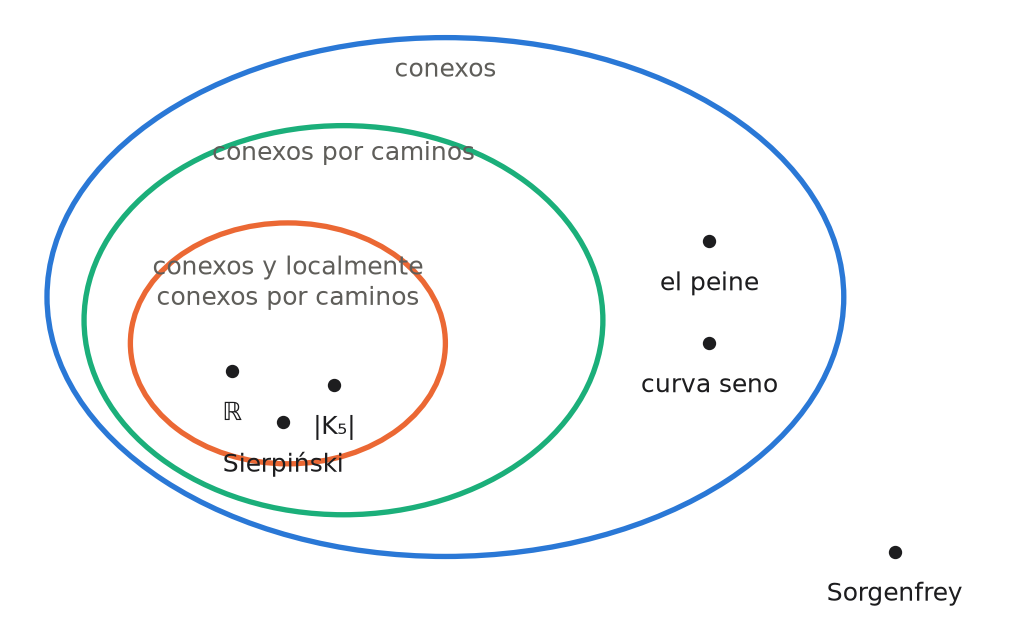
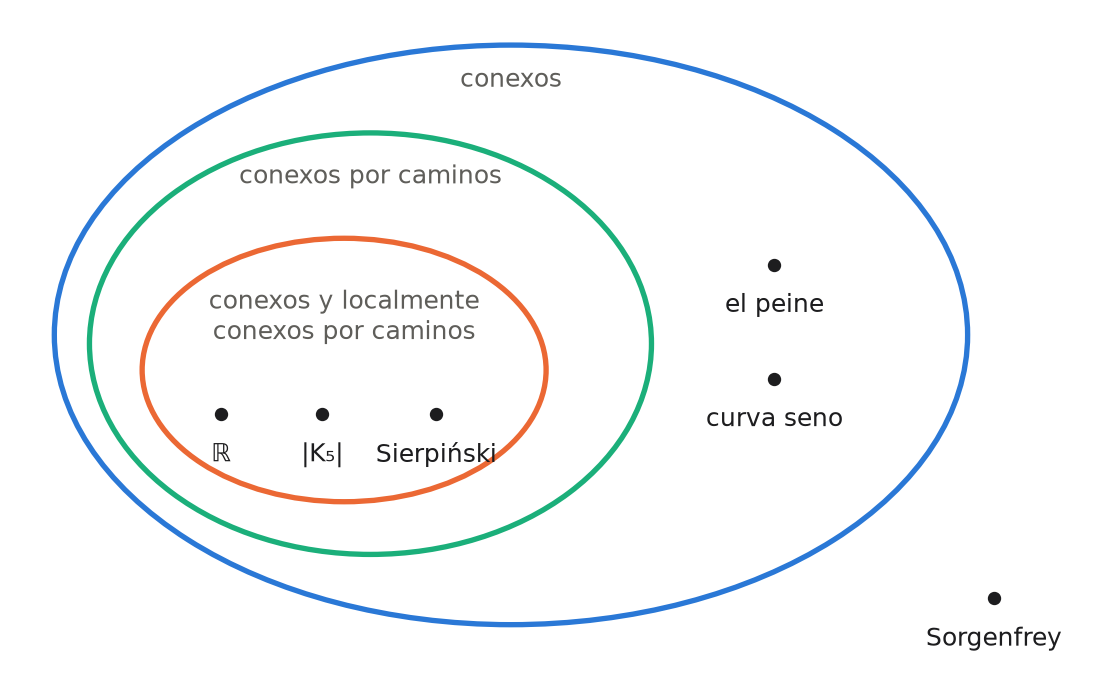
Built site for gh-pages

diff --git a/capitulos/01-grafos/1-1-componentes-conexas.html b/capitulos/01-grafos/1-1-componentes-conexas.html
@@ -1072,7 +1072,7 @@ window.Quarto = {
 <div id="fig-anidamiento" class="quarto-float quarto-figure quarto-figure-center anchored">
 <figure class="quarto-float quarto-float-fig figure">
 <div aria-describedby="fig-anidamiento-caption-0ceaefa1-69ba-4598-a22c-09a6ac19f8ca">
-<div id="e2b5ebd6" class="cell" data-renderings="[&quot;light&quot;,&quot;dark&quot;]" data-execution_count="2">
+<div id="ea2a3920" class="cell" data-renderings="[&quot;light&quot;,&quot;dark&quot;]" data-execution_count="2">
 <div class="cell-output cell-output-display light-content">
 <div>
 <figure class="figure">
@@ -1464,17 +1464,17 @@ G \text{ conexo} \iff |G| \text{ conexo por caminos} \iff |G| \text{ conexo}.
 <div class="code-copy-outer-scaffold"><div class="sourceCode cell-code" id="cb6"><pre class="sourceCode python code-with-copy"><code class="sourceCode python"><span id="cb6-1"><a href="#cb6-1" aria-hidden="true" tabindex="-1"></a><span class="im">from</span> matplotlib.patches <span class="im">import</span> Ellipse</span>
 <span id="cb6-2"><a href="#cb6-2" aria-hidden="true" tabindex="-1"></a></span>
 <span id="cb6-3"><a href="#cb6-3" aria-hidden="true" tabindex="-1"></a>regiones <span class="op">=</span> [</span>
-<span id="cb6-4"><a href="#cb6-4" aria-hidden="true" tabindex="-1"></a>    ((<span class="fl">0.0</span>, <span class="fl">0.0</span>), <span class="fl">8.6</span>, <span class="fl">5.6</span>, <span class="st">"conexos"</span>, (<span class="dv">0</span>, <span class="fl">2.45</span>)),</span>
-<span id="cb6-5"><a href="#cb6-5" aria-hidden="true" tabindex="-1"></a>    ((<span class="op">-</span><span class="fl">1.1</span>, <span class="op">-</span><span class="fl">0.25</span>), <span class="fl">5.6</span>, <span class="fl">4.2</span>, <span class="st">"conexos por caminos"</span>, (<span class="op">-</span><span class="fl">1.1</span>, <span class="fl">1.55</span>)),</span>
-<span id="cb6-6"><a href="#cb6-6" aria-hidden="true" tabindex="-1"></a>    ((<span class="op">-</span><span class="fl">1.7</span>, <span class="op">-</span><span class="fl">0.5</span>), <span class="fl">3.4</span>, <span class="fl">2.6</span>, <span class="st">"conexos y localmente</span><span class="ch">\n</span><span class="st">conexos por caminos"</span>, (<span class="op">-</span><span class="fl">1.7</span>, <span class="fl">0.15</span>)),</span>
+<span id="cb6-4"><a href="#cb6-4" aria-hidden="true" tabindex="-1"></a>    ((<span class="fl">0.4</span>, <span class="op">-</span><span class="fl">0.2</span>), <span class="fl">10.4</span>, <span class="fl">6.6</span>, <span class="st">"conexos"</span>, (<span class="fl">0.4</span>, <span class="fl">2.7</span>)),</span>
+<span id="cb6-5"><a href="#cb6-5" aria-hidden="true" tabindex="-1"></a>    ((<span class="op">-</span><span class="fl">1.2</span>, <span class="op">-</span><span class="fl">0.3</span>), <span class="fl">6.4</span>, <span class="fl">4.8</span>, <span class="st">"conexos por caminos"</span>, (<span class="op">-</span><span class="fl">1.2</span>, <span class="fl">1.6</span>)),</span>
+<span id="cb6-6"><a href="#cb6-6" aria-hidden="true" tabindex="-1"></a>    ((<span class="op">-</span><span class="fl">1.5</span>, <span class="op">-</span><span class="fl">0.6</span>), <span class="fl">4.6</span>, <span class="fl">3.0</span>, <span class="st">"conexos y localmente</span><span class="ch">\n</span><span class="st">conexos por caminos"</span>, (<span class="op">-</span><span class="fl">1.5</span>, <span class="fl">0.0</span>)),</span>
 <span id="cb6-7"><a href="#cb6-7" aria-hidden="true" tabindex="-1"></a>]</span>
 <span id="cb6-8"><a href="#cb6-8" aria-hidden="true" tabindex="-1"></a>ejemplos <span class="op">=</span> [</span>
-<span id="cb6-9"><a href="#cb6-9" aria-hidden="true" tabindex="-1"></a>    (<span class="st">"ℝ"</span>, (<span class="op">-</span><span class="fl">2.3</span>, <span class="op">-</span><span class="fl">0.8</span>)), (<span class="st">"|K₅|"</span>, (<span class="op">-</span><span class="fl">1.2</span>, <span class="op">-</span><span class="fl">0.95</span>)), (<span class="st">"Sierpiński"</span>, (<span class="op">-</span><span class="fl">1.75</span>, <span class="op">-</span><span class="fl">1.35</span>)),</span>
-<span id="cb6-10"><a href="#cb6-10" aria-hidden="true" tabindex="-1"></a>    (<span class="st">"el peine"</span>, (<span class="fl">2.85</span>, <span class="fl">0.6</span>)), (<span class="st">"curva seno"</span>, (<span class="fl">2.85</span>, <span class="op">-</span><span class="fl">0.5</span>)), (<span class="st">"Sorgenfrey"</span>, (<span class="fl">4.85</span>, <span class="op">-</span><span class="fl">2.75</span>)),</span>
+<span id="cb6-9"><a href="#cb6-9" aria-hidden="true" tabindex="-1"></a>    (<span class="st">"ℝ"</span>, (<span class="op">-</span><span class="fl">2.9</span>, <span class="op">-</span><span class="fl">1.1</span>)), (<span class="st">"|K₅|"</span>, (<span class="op">-</span><span class="fl">1.75</span>, <span class="op">-</span><span class="fl">1.1</span>)), (<span class="st">"Sierpiński"</span>, (<span class="op">-</span><span class="fl">0.45</span>, <span class="op">-</span><span class="fl">1.1</span>)),</span>
+<span id="cb6-10"><a href="#cb6-10" aria-hidden="true" tabindex="-1"></a>    (<span class="st">"el peine"</span>, (<span class="fl">3.4</span>, <span class="fl">0.6</span>)), (<span class="st">"curva seno"</span>, (<span class="fl">3.4</span>, <span class="op">-</span><span class="fl">0.7</span>)), (<span class="st">"Sorgenfrey"</span>, (<span class="fl">5.9</span>, <span class="op">-</span><span class="fl">3.2</span>)),</span>
 <span id="cb6-11"><a href="#cb6-11" aria-hidden="true" tabindex="-1"></a>]</span>
 <span id="cb6-12"><a href="#cb6-12" aria-hidden="true" tabindex="-1"></a><span class="cf">for</span> modo <span class="kw">in</span> MODOS:</span>
 <span id="cb6-13"><a href="#cb6-13" aria-hidden="true" tabindex="-1"></a>    <span class="cf">with</span> tema(modo) <span class="im">as</span> p:</span>
-<span id="cb6-14"><a href="#cb6-14" aria-hidden="true" tabindex="-1"></a>        fig, ax <span class="op">=</span> plt.subplots(figsize<span class="op">=</span>(<span class="fl">6.6</span>, <span class="fl">4.4</span>))</span>
+<span id="cb6-14"><a href="#cb6-14" aria-hidden="true" tabindex="-1"></a>        fig, ax <span class="op">=</span> plt.subplots(figsize<span class="op">=</span>(<span class="fl">7.2</span>, <span class="fl">4.6</span>))</span>
 <span id="cb6-15"><a href="#cb6-15" aria-hidden="true" tabindex="-1"></a>        colores <span class="op">=</span> [p[<span class="st">"acento"</span>], p[<span class="st">"enlace"</span>], p[<span class="st">"seco"</span>]]</span>
 <span id="cb6-16"><a href="#cb6-16" aria-hidden="true" tabindex="-1"></a>        <span class="cf">for</span> (centro, w, h, nombre, pos), color <span class="kw">in</span> <span class="bu">zip</span>(regiones, colores):</span>
 <span id="cb6-17"><a href="#cb6-17" aria-hidden="true" tabindex="-1"></a>            ax.add_patch(Ellipse(centro, w, h, fill<span class="op">=</span><span class="va">False</span>, lw<span class="op">=</span><span class="dv">2</span>, edgecolor<span class="op">=</span>color))</span>
@@ -1482,8 +1482,8 @@ G \text{ conexo} \iff |G| \text{ conexo por caminos} \iff |G| \text{ conexo}.
 <span id="cb6-19"><a href="#cb6-19" aria-hidden="true" tabindex="-1"></a>        <span class="cf">for</span> nombre, pos <span class="kw">in</span> ejemplos:</span>
 <span id="cb6-20"><a href="#cb6-20" aria-hidden="true" tabindex="-1"></a>            ax.plot(<span class="op">*</span>pos, <span class="st">"o"</span>, ms<span class="op">=</span><span class="dv">4</span>, color<span class="op">=</span>p[<span class="st">"tinta"</span>])</span>
 <span id="cb6-21"><a href="#cb6-21" aria-hidden="true" tabindex="-1"></a>            ax.text(pos[<span class="dv">0</span>], pos[<span class="dv">1</span>] <span class="op">-</span> <span class="fl">0.32</span>, nombre, ha<span class="op">=</span><span class="st">"center"</span>, va<span class="op">=</span><span class="st">"top"</span>, fontsize<span class="op">=</span><span class="fl">9.5</span>)</span>
-<span id="cb6-22"><a href="#cb6-22" aria-hidden="true" tabindex="-1"></a>        ax.set_xlim(<span class="op">-</span><span class="fl">4.6</span>, <span class="fl">6.0</span>)</span>
-<span id="cb6-23"><a href="#cb6-23" aria-hidden="true" tabindex="-1"></a>        ax.set_ylim(<span class="op">-</span><span class="fl">3.3</span>, <span class="fl">3.0</span>)</span>
+<span id="cb6-22"><a href="#cb6-22" aria-hidden="true" tabindex="-1"></a>        ax.set_xlim(<span class="op">-</span><span class="fl">5.2</span>, <span class="fl">7.0</span>)</span>
+<span id="cb6-23"><a href="#cb6-23" aria-hidden="true" tabindex="-1"></a>        ax.set_ylim(<span class="op">-</span><span class="fl">3.9</span>, <span class="fl">3.4</span>)</span>
 <span id="cb6-24"><a href="#cb6-24" aria-hidden="true" tabindex="-1"></a>        ax.set_aspect(<span class="st">"equal"</span>)</span>
 <span id="cb6-25"><a href="#cb6-25" aria-hidden="true" tabindex="-1"></a>        ax.axis(<span class="st">"off"</span>)</span>
 <span id="cb6-26"><a href="#cb6-26" aria-hidden="true" tabindex="-1"></a>        plt.show()</span></code></pre></div><button title="Copiar al portapapeles" class="code-copy-button"><i class="bi"></i></button></div>
@@ -1491,18 +1491,18 @@ G \text{ conexo} \iff |G| \text{ conexo por caminos} \iff |G| \text{ conexo}.
 <div id="fig-jerarquia" class="quarto-float quarto-figure quarto-figure-center anchored">
 <figure class="quarto-float quarto-float-fig figure">
 <div aria-describedby="fig-jerarquia-caption-0ceaefa1-69ba-4598-a22c-09a6ac19f8ca">
-<div id="127000f6" class="cell" data-renderings="[&quot;light&quot;,&quot;dark&quot;]" data-execution_count="3">
+<div id="723c7bdc" class="cell" data-renderings="[&quot;light&quot;,&quot;dark&quot;]" data-execution_count="3">
 <div class="cell-output cell-output-display light-content">
 <div>
 <figure class="figure">
-<p><img src="1-1-componentes-conexas_files/figure-html/cell-4-output-1.png" alt="Diagrama de Euler: el conjunto de los conexos contiene al de los conexos por caminos, que contiene al de los conexos y localmente conexos por caminos. Los ejemplos ℝ, la realización de K5 y Sierpiński están en el más interior; el peine y la curva seno están en conexos pero no conexos por caminos; Sorgenfrey está afuera." width="510" height="313" class="figure-img"></p>
+<p><img src="1-1-componentes-conexas_files/figure-html/cell-4-output-1.png" alt="Diagrama de Euler: el conjunto de los conexos contiene al de los conexos por caminos, que contiene al de los conexos y localmente conexos por caminos. Los ejemplos ℝ, la realización de K5 y Sierpiński están en el más interior; el peine y la curva seno están en conexos pero no conexos por caminos; Sorgenfrey está afuera." width="555" height="340" class="figure-img"></p>
 </figure>
 </div>
 </div>
 <div class="cell-output cell-output-display dark-content">
 <div>
 <figure class="figure">
-<p><img src="1-1-componentes-conexas_files/figure-html/cell-4-output-2.png" alt="Diagrama de Euler: el conjunto de los conexos contiene al de los conexos por caminos, que contiene al de los conexos y localmente conexos por caminos. Los ejemplos ℝ, la realización de K5 y Sierpiński están en el más interior; el peine y la curva seno están en conexos pero no conexos por caminos; Sorgenfrey está afuera." width="510" height="313" class="figure-img"></p>
+<p><img src="1-1-componentes-conexas_files/figure-html/cell-4-output-2.png" alt="Diagrama de Euler: el conjunto de los conexos contiene al de los conexos por caminos, que contiene al de los conexos y localmente conexos por caminos. Los ejemplos ℝ, la realización de K5 y Sierpiński están en el más interior; el peine y la curva seno están en conexos pero no conexos por caminos; Sorgenfrey está afuera." width="555" height="340" class="figure-img"></p>
 </figure>
 </div>
 </div>
@@ -1548,7 +1548,7 @@ Figura&nbsp;2: La jerarquía de la conexidad, con un ejemplo en cada región. La
 \boxed{\; n - m = \beta_0 - \beta_1 \;}
 \]</span></p>
 <p>Cada arista rechazada cierra <strong>un ciclo nuevo, independiente de los anteriores</strong>: <span class="math inline">\(\beta_1\)</span> cuenta los «agujeros» del grafo. <span class="math inline">\(\beta_0\)</span> y <span class="math inline">\(\beta_1\)</span> son los <strong>números de Betti</strong> del grafo y la fórmula es su <strong>característica de Euler</strong>. Sin decirlo, union-find calcula la <strong>homología</strong> del grafo en dimensiones 0 y 1, que es el tema del capítulo IV. No hace falta creerlo: lo comprobamos acá mismo con <code>tcomp</code>, sobre grafos al azar y con las tres estrategias.</p>
-<div id="bc733136" class="cell" data-execution_count="4">
+<div id="22bcbb54" class="cell" data-execution_count="4">
 <details class="code-fold">
 <summary>Código</summary>
 <div class="code-copy-outer-scaffold"><div class="sourceCode cell-code" id="cb7"><pre class="sourceCode python code-with-copy"><code class="sourceCode python"><span id="cb7-1"><a href="#cb7-1" aria-hidden="true" tabindex="-1"></a>rng <span class="op">=</span> random.Random(<span class="dv">0</span>)</span>
@@ -2056,7 +2056,7 @@ Figura&nbsp;2: La jerarquía de la conexidad, con un ejemplo en cada región. La
 <div id="fig-persistencia" class="quarto-float quarto-figure quarto-figure-center anchored">
 <figure class="quarto-float quarto-float-fig figure">
 <div aria-describedby="fig-persistencia-caption-0ceaefa1-69ba-4598-a22c-09a6ac19f8ca">
-<div id="7a5c3ea8" class="cell" data-renderings="[&quot;light&quot;,&quot;dark&quot;]" data-execution_count="9">
+<div id="5f3de923" class="cell" data-renderings="[&quot;light&quot;,&quot;dark&quot;]" data-execution_count="9">
 <div class="cell-output cell-output-display light-content">
 <div>
 <figure class="figure">
@@ -2079,7 +2079,7 @@ Figura&nbsp;3: Persistencia en dimensión 0 con tcomp. Arriba, la nube a tres ra
 </figure>
 </div>
 <p>¿Es correcto? <code>tcomp</code> es una implementación propia, así que lo contrastamos con la librería de referencia, GUDHI, sobre la misma nube:</p>
-<div id="7f8301aa" class="cell" data-execution_count="10">
+<div id="1af81272" class="cell" data-execution_count="10">
 <details class="code-fold">
 <summary>Código</summary>
 <div class="code-copy-outer-scaffold"><div class="sourceCode cell-code" id="cb19"><pre class="sourceCode python code-with-copy"><code class="sourceCode python"><span id="cb19-1"><a href="#cb19-1" aria-hidden="true" tabindex="-1"></a><span class="im">import</span> gudhi</span>
@@ -2141,7 +2141,7 @@ Figura&nbsp;3: Persistencia en dimensión 0 con tcomp. Arriba, la nube a tres ra
 <div id="fig-finanzas" class="quarto-float quarto-figure quarto-figure-center anchored">
 <figure class="quarto-float quarto-float-fig figure">
 <div aria-describedby="fig-finanzas-caption-0ceaefa1-69ba-4598-a22c-09a6ac19f8ca">
-<div id="48a76b57" class="cell" data-renderings="[&quot;light&quot;,&quot;dark&quot;]" data-execution_count="11">
+<div id="33dfa594" class="cell" data-renderings="[&quot;light&quot;,&quot;dark&quot;]" data-execution_count="11">
 <div class="cell-output cell-output-display light-content">
 <div>
 <figure class="figure">
@@ -2164,7 +2164,7 @@ Figura&nbsp;4: Dos sectores sintéticos. Izquierda: matriz de correlaciones. Der
 </figure>
 </div>
 <p>¿El código de barras es de verdad el dendrograma? Lo contrastamos con el enlace simple de SciPy:</p>
-<div id="dad002db" class="cell" data-execution_count="12">
+<div id="30d4ecee" class="cell" data-execution_count="12">
 <details class="code-fold">
 <summary>Código</summary>
 <div class="code-copy-outer-scaffold"><div class="sourceCode cell-code" id="cb22"><pre class="sourceCode python code-with-copy"><code class="sourceCode python"><span id="cb22-1"><a href="#cb22-1" aria-hidden="true" tabindex="-1"></a>alturas <span class="op">=</span> np.sort(linkage(D[np.triu_indices(<span class="dv">10</span>, <span class="dv">1</span>)], method<span class="op">=</span><span class="st">"single"</span>)[:, <span class="dv">2</span>])</span>
@@ -3496,17 +3496,17 @@ window._ojs.runtime.interpretFromScriptTags();
 <span id="cb24-817"><a href="#cb24-817" aria-hidden="true" tabindex="-1"></a><span class="im">from</span> matplotlib.patches <span class="im">import</span> Ellipse</span>
 <span id="cb24-818"><a href="#cb24-818" aria-hidden="true" tabindex="-1"></a></span>
 <span id="cb24-819"><a href="#cb24-819" aria-hidden="true" tabindex="-1"></a>regiones <span class="op">=</span> [</span>
-<span id="cb24-820"><a href="#cb24-820" aria-hidden="true" tabindex="-1"></a>    ((<span class="fl">0.0</span>, <span class="fl">0.0</span>), <span class="fl">8.6</span>, <span class="fl">5.6</span>, <span class="st">"conexos"</span>, (<span class="dv">0</span>, <span class="fl">2.45</span>)),</span>
-<span id="cb24-821"><a href="#cb24-821" aria-hidden="true" tabindex="-1"></a>    ((<span class="op">-</span><span class="fl">1.1</span>, <span class="op">-</span><span class="fl">0.25</span>), <span class="fl">5.6</span>, <span class="fl">4.2</span>, <span class="st">"conexos por caminos"</span>, (<span class="op">-</span><span class="fl">1.1</span>, <span class="fl">1.55</span>)),</span>
-<span id="cb24-822"><a href="#cb24-822" aria-hidden="true" tabindex="-1"></a>    ((<span class="op">-</span><span class="fl">1.7</span>, <span class="op">-</span><span class="fl">0.5</span>), <span class="fl">3.4</span>, <span class="fl">2.6</span>, <span class="st">"conexos y localmente</span><span class="ch">\n</span><span class="st">conexos por caminos"</span>, (<span class="op">-</span><span class="fl">1.7</span>, <span class="fl">0.15</span>)),</span>
+<span id="cb24-820"><a href="#cb24-820" aria-hidden="true" tabindex="-1"></a>    ((<span class="fl">0.4</span>, <span class="op">-</span><span class="fl">0.2</span>), <span class="fl">10.4</span>, <span class="fl">6.6</span>, <span class="st">"conexos"</span>, (<span class="fl">0.4</span>, <span class="fl">2.7</span>)),</span>
+<span id="cb24-821"><a href="#cb24-821" aria-hidden="true" tabindex="-1"></a>    ((<span class="op">-</span><span class="fl">1.2</span>, <span class="op">-</span><span class="fl">0.3</span>), <span class="fl">6.4</span>, <span class="fl">4.8</span>, <span class="st">"conexos por caminos"</span>, (<span class="op">-</span><span class="fl">1.2</span>, <span class="fl">1.6</span>)),</span>
+<span id="cb24-822"><a href="#cb24-822" aria-hidden="true" tabindex="-1"></a>    ((<span class="op">-</span><span class="fl">1.5</span>, <span class="op">-</span><span class="fl">0.6</span>), <span class="fl">4.6</span>, <span class="fl">3.0</span>, <span class="st">"conexos y localmente</span><span class="ch">\n</span><span class="st">conexos por caminos"</span>, (<span class="op">-</span><span class="fl">1.5</span>, <span class="fl">0.0</span>)),</span>
 <span id="cb24-823"><a href="#cb24-823" aria-hidden="true" tabindex="-1"></a>]</span>
 <span id="cb24-824"><a href="#cb24-824" aria-hidden="true" tabindex="-1"></a>ejemplos <span class="op">=</span> [</span>
-<span id="cb24-825"><a href="#cb24-825" aria-hidden="true" tabindex="-1"></a>    (<span class="st">"ℝ"</span>, (<span class="op">-</span><span class="fl">2.3</span>, <span class="op">-</span><span class="fl">0.8</span>)), (<span class="st">"|K₅|"</span>, (<span class="op">-</span><span class="fl">1.2</span>, <span class="op">-</span><span class="fl">0.95</span>)), (<span class="st">"Sierpiński"</span>, (<span class="op">-</span><span class="fl">1.75</span>, <span class="op">-</span><span class="fl">1.35</span>)),</span>
-<span id="cb24-826"><a href="#cb24-826" aria-hidden="true" tabindex="-1"></a>    (<span class="st">"el peine"</span>, (<span class="fl">2.85</span>, <span class="fl">0.6</span>)), (<span class="st">"curva seno"</span>, (<span class="fl">2.85</span>, <span class="op">-</span><span class="fl">0.5</span>)), (<span class="st">"Sorgenfrey"</span>, (<span class="fl">4.85</span>, <span class="op">-</span><span class="fl">2.75</span>)),</span>
+<span id="cb24-825"><a href="#cb24-825" aria-hidden="true" tabindex="-1"></a>    (<span class="st">"ℝ"</span>, (<span class="op">-</span><span class="fl">2.9</span>, <span class="op">-</span><span class="fl">1.1</span>)), (<span class="st">"|K₅|"</span>, (<span class="op">-</span><span class="fl">1.75</span>, <span class="op">-</span><span class="fl">1.1</span>)), (<span class="st">"Sierpiński"</span>, (<span class="op">-</span><span class="fl">0.45</span>, <span class="op">-</span><span class="fl">1.1</span>)),</span>
+<span id="cb24-826"><a href="#cb24-826" aria-hidden="true" tabindex="-1"></a>    (<span class="st">"el peine"</span>, (<span class="fl">3.4</span>, <span class="fl">0.6</span>)), (<span class="st">"curva seno"</span>, (<span class="fl">3.4</span>, <span class="op">-</span><span class="fl">0.7</span>)), (<span class="st">"Sorgenfrey"</span>, (<span class="fl">5.9</span>, <span class="op">-</span><span class="fl">3.2</span>)),</span>
 <span id="cb24-827"><a href="#cb24-827" aria-hidden="true" tabindex="-1"></a>]</span>
 <span id="cb24-828"><a href="#cb24-828" aria-hidden="true" tabindex="-1"></a><span class="cf">for</span> modo <span class="kw">in</span> MODOS:</span>
 <span id="cb24-829"><a href="#cb24-829" aria-hidden="true" tabindex="-1"></a>    <span class="cf">with</span> tema(modo) <span class="im">as</span> p:</span>
-<span id="cb24-830"><a href="#cb24-830" aria-hidden="true" tabindex="-1"></a>        fig, ax <span class="op">=</span> plt.subplots(figsize<span class="op">=</span>(<span class="fl">6.6</span>, <span class="fl">4.4</span>))</span>
+<span id="cb24-830"><a href="#cb24-830" aria-hidden="true" tabindex="-1"></a>        fig, ax <span class="op">=</span> plt.subplots(figsize<span class="op">=</span>(<span class="fl">7.2</span>, <span class="fl">4.6</span>))</span>
 <span id="cb24-831"><a href="#cb24-831" aria-hidden="true" tabindex="-1"></a>        colores <span class="op">=</span> [p[<span class="st">"acento"</span>], p[<span class="st">"enlace"</span>], p[<span class="st">"seco"</span>]]</span>
 <span id="cb24-832"><a href="#cb24-832" aria-hidden="true" tabindex="-1"></a>        <span class="cf">for</span> (centro, w, h, nombre, pos), color <span class="kw">in</span> <span class="bu">zip</span>(regiones, colores):</span>
 <span id="cb24-833"><a href="#cb24-833" aria-hidden="true" tabindex="-1"></a>            ax.add_patch(Ellipse(centro, w, h, fill<span class="op">=</span><span class="va">False</span>, lw<span class="op">=</span><span class="dv">2</span>, edgecolor<span class="op">=</span>color))</span>
@@ -3514,8 +3514,8 @@ window._ojs.runtime.interpretFromScriptTags();
 <span id="cb24-835"><a href="#cb24-835" aria-hidden="true" tabindex="-1"></a>        <span class="cf">for</span> nombre, pos <span class="kw">in</span> ejemplos:</span>
 <span id="cb24-836"><a href="#cb24-836" aria-hidden="true" tabindex="-1"></a>            ax.plot(<span class="op">*</span>pos, <span class="st">"o"</span>, ms<span class="op">=</span><span class="dv">4</span>, color<span class="op">=</span>p[<span class="st">"tinta"</span>])</span>
 <span id="cb24-837"><a href="#cb24-837" aria-hidden="true" tabindex="-1"></a>            ax.text(pos[<span class="dv">0</span>], pos[<span class="dv">1</span>] <span class="op">-</span> <span class="fl">0.32</span>, nombre, ha<span class="op">=</span><span class="st">"center"</span>, va<span class="op">=</span><span class="st">"top"</span>, fontsize<span class="op">=</span><span class="fl">9.5</span>)</span>
-<span id="cb24-838"><a href="#cb24-838" aria-hidden="true" tabindex="-1"></a>        ax.set_xlim(<span class="op">-</span><span class="fl">4.6</span>, <span class="fl">6.0</span>)</span>
-<span id="cb24-839"><a href="#cb24-839" aria-hidden="true" tabindex="-1"></a>        ax.set_ylim(<span class="op">-</span><span class="fl">3.3</span>, <span class="fl">3.0</span>)</span>
+<span id="cb24-838"><a href="#cb24-838" aria-hidden="true" tabindex="-1"></a>        ax.set_xlim(<span class="op">-</span><span class="fl">5.2</span>, <span class="fl">7.0</span>)</span>
+<span id="cb24-839"><a href="#cb24-839" aria-hidden="true" tabindex="-1"></a>        ax.set_ylim(<span class="op">-</span><span class="fl">3.9</span>, <span class="fl">3.4</span>)</span>
 <span id="cb24-840"><a href="#cb24-840" aria-hidden="true" tabindex="-1"></a>        ax.set_aspect(<span class="st">"equal"</span>)</span>
 <span id="cb24-841"><a href="#cb24-841" aria-hidden="true" tabindex="-1"></a>        ax.axis(<span class="st">"off"</span>)</span>
 <span id="cb24-842"><a href="#cb24-842" aria-hidden="true" tabindex="-1"></a>        plt.show()</span>
